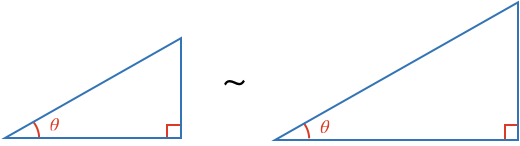
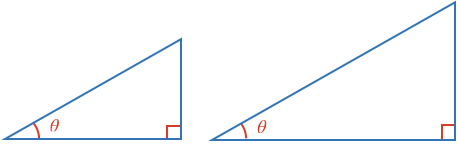
updates

Changed region(s): [[0.4595, 0.0, 1.0, 0.9863], [0.0, 0.2466, 0.3982, 0.9589], [0.4289, 0.5479, 0.4902, 0.6027]]

diff --git a/src/content/Math/Trigonometry_1/Sine/explanation/brief/content.md b/src/content/Math/Trigonometry_1/Sine/explanation/brief/content.md
@@ -4,8 +4,6 @@
 
 ![](simintro.png)
 
-The symbol "~" denotes that the triangles are similar.
-
 If we look at the ratio of any two corresponding sides (for example $$A$$ and $$B$$), we see the ratio is the same:
 
 $$\frac{sA}{sB} = \frac{s}{s}\times \frac{A}{B} = 1 \times \frac{A}{B} = \frac{A}{B}$$
@@ -20,15 +18,11 @@ In other words, for all similar triangles, the ratio of corresponding sides is c
 
 ### Right angle triangles
 
-The angles in a triangle [[add to 180º]]((qr,'Math/Geometry_1/Triangles/base/AngleSumPres',#00756F)), so just two angles are needed to know all three. Therefore, any two **right angle triangles** will be **similar** if we know just one angle and the right angle.
-
-![](rightsim.png)
-
-Name the sides relative to this known angle $$\theta$$:
+The angles in a triangle [[add to 180º]]((qr,'Math/Geometry_1/Triangles/base/AngleSumPres',#00756F)), so just two angles are needed to know all three. Therefore, any two **right angle triangles** will be **similar** if we know just one angle and the right angle. We will call this known angle $$\theta$$  and name the sides relative to $$\theta$$:
 
 ![](names.png)
 
-We can now say for all right angle triangles with angle $$\theta$$
+All right angle triangles with the same angle $$\theta$$ are similar and therefore:
 
 * the ratio of the opposite side and the hypotenuse will be the same
 * the ratio of the adjacent side and the hypotenuse will be the same
